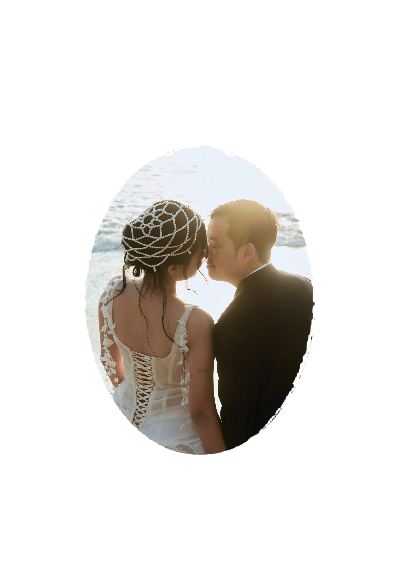
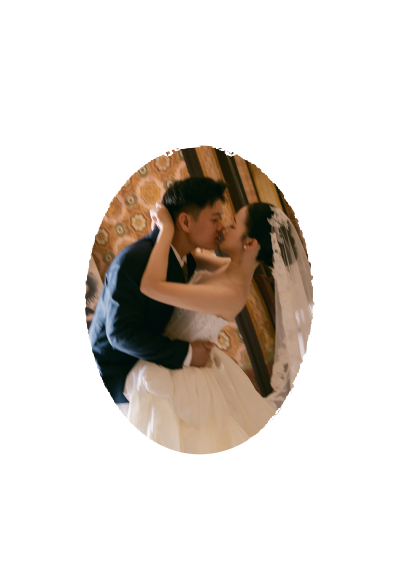
Update

Changed region(s): [[0.21, 0.2378, 0.81, 0.8024]]

diff --git a/assets/scss/sections/_cover.scss b/assets/scss/sections/_cover.scss
@@ -3,7 +3,6 @@
 
 .cover {
     .content {
-        // background: url('../../assets/images/bg/hero_bg.webp') no-repeat center/cover;
         background-color: $primary-color;
         width: 100%;
         aspect-ratio: 500 / 822;
@@ -22,7 +21,7 @@
                     rgba(0, 0, 0, 0.096),
                     rgba(0, 0, 0, 0.201)),
                 url('../../assets/images/hero_bg.webp') no-repeat center/cover;
-            filter: blur(8px);
+            filter: blur(5px);
             z-index: 0;
         }
 
@@ -39,7 +38,7 @@
             aspect-ratio: 2 / 2.5;
             perspective: 1000px;
             margin: 5% 0;
-            background-color: $image-bg-color;
+            // background-color: $image-bg-color;
 
             img {
                 width: 100%;

diff --git a/thiepmoi.html b/thiepmoi.html
@@ -32,9 +32,9 @@
           <img class="divider-icon top" data-animate="fade-down" src="assets/images/icons/divider_top.png" alt="" />
         </div>
         <p class="subtitle" data-animate="fade-left">WELCOME TO OUR WEDDING</p>
-        <h2 class="names " data-animate="fade-right">Huỳnh Đức và Hồng Phương</h2>
+        <h2 class="names " data-animate="fade-right">Huỳnh Đức & Hồng Phương</h2>
         <div class="photo-frame">
-          <img data-animate="fade-up" src="" alt="" />
+          <img data-animate="fade-up" src="assets/images/hero.png" alt="" />
         </div>
         <p class="subtext" data-animate="fade-up">Always and forever</p>
         <div class="divider">

diff --git a/dist/css/main.css b/dist/css/main.css
@@ -341,7 +341,7 @@ section {
   position: absolute;
   inset: 0;
   background: linear-gradient(to bottom, rgba(0, 0, 0, 0.096), rgba(0, 0, 0, 0.201)), url("../../assets/images/hero_bg.webp") no-repeat center/cover;
-  filter: blur(8px);
+  filter: blur(5px);
   z-index: 0;
 }
 .cover .content .names {
@@ -356,7 +356,6 @@ section {
   aspect-ratio: 2/2.5;
   perspective: 1000px;
   margin: 5% 0;
-  background-color: rgba(85, 61, 20, 0.7411764706);
 }
 .cover .content .photo-frame img {
   width: 100%;
